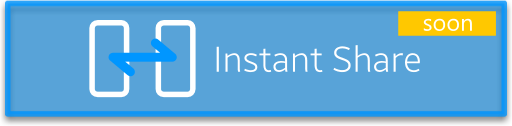
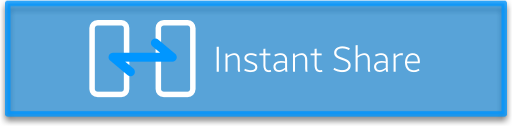
towards instant share

Changed region(s): [[0.75, 0.0714, 0.9688, 0.2857]]

diff --git a/js/aroundviewer.js b/js/aroundviewer.js
@@ -1,6 +1,8 @@
 var passedUrl = '';
 var peer = null;
 var conn = null;
+var conns = [];
+var imgDataToSend = [];
 
 document.addEventListener('DOMContentLoaded', function() {
     var ext_res = getUrlParameter('pic');
@@ -20,6 +22,11 @@ function init(){
     var uploadBtn = document.getElementById('selectButton'),
         fileElem = document.getElementById('fileSelection'),
         btnEllipsis = document.getElementById('btnMenu');
+
+    var shareBtn = document.getElementById('shareButton');
+    shareBtn.addEventListener('click', function (e){
+         startPeer();
+    });
 
     btnEllipsis.addEventListener('click', function(){
          var fs = document.getElementById('fileSelector');
@@ -89,7 +96,7 @@ var getCurrentImageData = function(){
     //uses image loaded in skybox
     var img = document.getElementById('texture');
     ctx.drawImage(img, 0, 0, 4096, 4096);
-    var imgData = ctx.getImageData();
+    var imgData = ctx.getImageData(0,0,4096,4096);
     return imgData;
 };
 
@@ -97,22 +104,24 @@ var startPeer = function(){
     
     peer = new Peer({key: 'bw0dbyumsbz3q5mi'});
     peer.on('open', function(id) {
-        document.getElementById('peerId').innerText = id;
+        document.getElementById('peerId').innerText = 'https://samsunginter.net/bubble/share.html?id='+id;
     });
 
     peer.on('connection', function(con){
-
         console.log('incoming connection from '+ con.peer);
 
+        conns.push(con.peer);
+        imgDataToSend = getCurrentImageData();
+        for(i = 0; i < conns.length; i++){
+            peer.connections[conns[i]][0].send(imgDataToSend.data);
+            console.log(imgDataToSend.data);
+        }
+        
         con.on('data', function(data){
-            console.log('Incoming data', data);
+            console.log('in: ' + data);
             con.send('received ' + peer.id);
         });
     });
-
-
-
-
 };
 
 

diff --git a/css/style.css b/css/style.css
@@ -7,7 +7,7 @@ body {
 
 .menuButton {
     margin: .5em;
-
+    cursor:pointer;
     width: 11em;
 }
 
@@ -15,6 +15,7 @@ body {
     margin: auto;
     width: 2em;
     display: none;
+    cursor:pointer;
 }
 
 #bIcon{
@@ -56,13 +57,13 @@ body {
         transform: translateY(0);
     }
     to {
-        transform: translateY(-20.5em);
+        transform: translateY(-16em);
     }
 }
 
 @keyframes maximize {
     from {
-        transform: translateY(-20.5em);
+        transform: translateY(-16em);
     }
     to {
         transform: translateY(0);
@@ -90,13 +91,13 @@ body {
             transform: translateY(0);
         }
         to {
-            transform: translateY(-27.5em);
+            transform: translateY(-22em);
         }
     }
 
     @keyframes maximize {
         from {
-            transform: translateY(-27.5em);
+            transform: translateY(-22em);
         }
         to {
             transform: translateY(0);
@@ -125,13 +126,13 @@ body {
             transform: translateY(0);
         }
         to {
-            transform: translateY(-35.5em);
+            transform: translateY(-27.4em);
         }
     }
 
     @keyframes maximize {
         from {
-            transform: translateY(-35.5em);
+            transform: translateY(-27.4em);
         }
         to {
             transform: translateY(0);

diff --git a/js/share.js b/js/share.js
@@ -5,8 +5,14 @@ document.addEventListener('DOMContentLoaded', function() {
     peer = new Peer({key: 'bw0dbyumsbz3q5mi'});
     conn = peer.connect(peerid);
     conn.on('data', function(data){
-        console.log('received: ' + data );
+        console.log('in: ' + data );
+        reconstructImage(data, 4096, 4096);
     });
-    conn.send('HELLO WORLD');
+    //conn.send('HELLO WORLD');
 });
+
+var reconstructImage = function(data, width, height){
+    console.log('reconstructing image')
+    //var imgData = new ImageData(data, width, height);
+};
 

diff --git a/index.html b/index.html
@@ -26,7 +26,6 @@
             <img src="i/appHeader.png" id="bIcon">
             <a href="#" id="selectButton"><img src="i/btnSelectDevice.png" class="menuButton"></a>
              <img src="i/btnInstantShare.png" id="shareButton" class="menuButton">
-            <img src="i/btnUploadWeb.png" id="uploadButton" class="menuButton"> 
             <img src="i/btnMenu.png" id="btnMenu">
             <div id="peerId"></div>
         </div>
